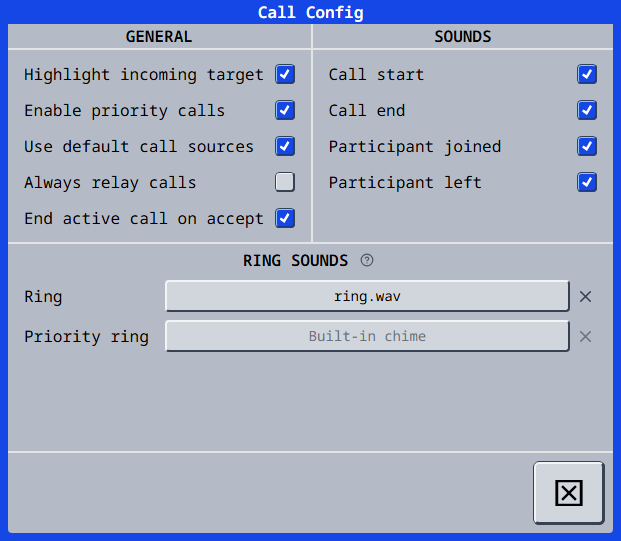
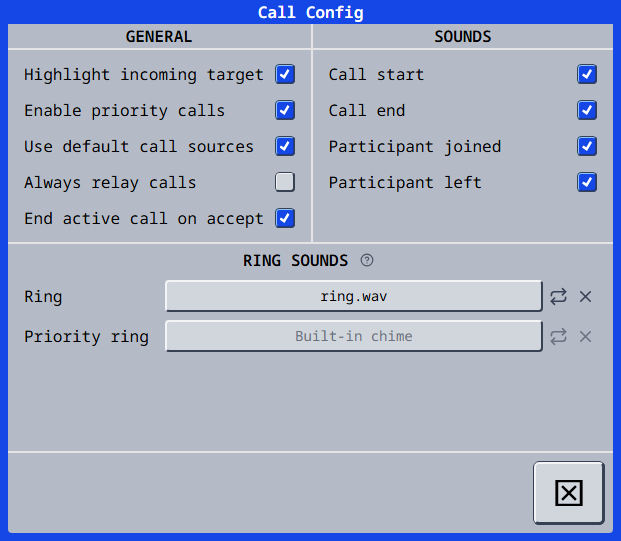
docs: document looping custom ring sounds (#94)

Changed region(s): [[0.4895, 0.5915, 0.6731, 0.6506], [0.8567, 0.5028, 0.9179, 0.6506], [0.5201, 0.5323, 0.6425, 0.5619]]

diff --git a/docs/advanced/remote-api.md b/docs/advanced/remote-api.md
@@ -276,6 +276,7 @@ Some commands are marked as **desktop only**[^desktop-only] and are unavailable 
 | `audio_get_ring_sounds`         | -                                                               | [`RingSounds`](#ringsounds)     | Get the custom ring sound files, if any.                                           |
 | `audio_pick_ring_sound` [^desktop-only] | -                                                       | `string` \| `null`              | Open a native file dialog and return the chosen WAV path without applying it.     |
 | `audio_set_ring_sound`          | `ringType`: [`RingSoundType`](#ringsoundtype), `path`: string?  | [`RingSounds`](#ringsounds)     | Use the WAV file at `path` for that ring, or the built-in chime when `path` is `null`. Plays it once. |
+| `audio_set_ring_sound_loop`     | `ringType`: [`RingSoundType`](#ringsoundtype), `enabled`: boolean | [`RingSounds`](#ringsounds)   | Repeat that ring's custom sound until no incoming call is ringing, or play it once. Stored even while the ring uses the built-in chime, which never loops. |
 | `audio_play_ui_click`           | -                                                               | `null`                          | Play the UI click sound.                                                           |
 | `audio_start_input_level_meter` | -                                                               | `{ userAdded: boolean }`        | Start input level monitoring, or join it if another frontend already runs it. Subscribe to `audio:input-level` to receive updates. `userAdded` says whether this call counts as a use that must be released. |
 | `audio_stop_input_level_meter`  | -                                                               | `null`                          | Release this client's use of the meter. It only stops once no frontend uses it any more. |
@@ -761,12 +762,12 @@ Used as the `deviceType` argument for `audio_get_devices` and `audio_set_device`
 
 ### RingSounds
 
-Returned by `audio_get_ring_sounds` and `audio_set_ring_sound`. A field is absent when that ring uses the built-in chime.
+Returned by `audio_get_ring_sounds`, `audio_set_ring_sound` and `audio_set_ring_sound_loop`. A field is absent when that ring uses the built-in chime.
 
 ```json
 {
-  "ring": {"path": "C:\\Users\\me\\Sounds\\ring.wav", "available": true},
-  "priorityRing": {"path": "C:\\Users\\me\\Sounds\\urgent.wav", "available": false}
+  "ring": {"path": "C:\\Users\\me\\Sounds\\ring.wav", "available": true, "loop": true},
+  "priorityRing": {"path": "C:\\Users\\me\\Sounds\\urgent.wav", "available": false, "loop": false}
 }
 ```
 
@@ -781,12 +782,13 @@ Returned by `audio_get_ring_sounds` and `audio_set_ring_sound`. A field is absen
 | ----------- | --------- | ---------------------------------------------------------------------------------------------------- |
 | `path`      | `string`  | Absolute path of the WAV file on the desktop machine.                                                |
 | `available` | `boolean` | `false` when the file could not be loaded at startup, in which case the built-in chime plays instead. |
+| `loop`      | `boolean` | Whether the sound repeats until no incoming call is ringing. Has no effect while `available` is `false`. |
 
 `audio_set_ring_sound` fails, and keeps the previous sound, if the file is not readable as WAV, is shorter than 100 milliseconds, longer than 30 seconds, or silent. The path must be readable by the desktop client, not by the remote browser.
 
 #### RingSoundType
 
-Used as the `ringType` argument for `audio_set_ring_sound`:
+Used as the `ringType` argument for `audio_set_ring_sound` and `audio_set_ring_sound_loop`:
 
 ```
 "ring" | "priorityRing"

diff --git a/docs/settings/call.md b/docs/settings/call.md
@@ -144,22 +144,31 @@ style={{
   }}
 />
 
-Each ring has a field that reads **Built-in chime** or the name of the chosen file, with an **X** next to it, the same controls as a [hotkey](./hotkeys.md).
+Each ring has a field that reads **Built-in chime** or the name of the chosen file, followed by a **loop** button and an **X**.
 
 - Click the field to open a file dialog and pick a `.wav` file. vacs plays it once so you can check it.
 - Click the **X** to go back to the built-in chime for that ring. It plays once as confirmation.
+- Click the **loop** button (two circling arrows) to repeat your custom sound until you pick up. It turns blue while it is on. Click it again to play the sound only once.
 - Hover the field to see the full path.
 
 The **Priority ring** field is only available while **Enable priority calls** is on, since a priority call is the only thing that plays it.
 
 The file has to be a **WAV** file between **0.1 and 30 seconds** long. Other formats such as MP3 are not supported. Mono or stereo, and any common sample rate, are fine: vacs converts the file to what your output device needs. If a file cannot be used, vacs tells you why and keeps the previous sound.
 
-The sound plays once per incoming call, through the [speaker device](./audio.mdx#audio-device-configuration) when one is configured and otherwise through your headset, and it stops as soon as you pick up. vacs levels every custom file to the loudness of the built-in chime, so the [Chime Volume](./audio.mdx#chime-volume) slider means the same thing whichever sound is set, and releasing that slider plays the current ring sound as well.
+Unless the loop button is on, the sound plays once per incoming call, through the [speaker device](./audio.mdx#audio-device-configuration) when one is configured and otherwise through your headset, and it stops as soon as you pick up. vacs levels every custom file to the loudness of the built-in chime, so the [Chime Volume](./audio.mdx#chime-volume) slider means the same thing whichever sound is set, and releasing that slider plays the current ring sound as well.
+
+:::tip[Looping a ring sound]
+Available from **vacs 3.0.0**.
+
+A looping ring sound starts again **3 seconds** after it finished, until no incoming call is ringing any more, for example because you picked up the last one or the caller hung up. Only custom sounds can loop: the button is greyed out while a ring uses the built-in chime or its file cannot be loaded. vacs remembers the loop setting when you clear or replace the file.
+
+To change the pause, set `ring_sound_loop_pause_seconds` in the `[audio]` section of `audio.toml`, for example `ring_sound_loop_pause_seconds = 1.5`, and restart vacs. **Open Config** in the [Miscellaneous settings](./misc.md#open-config) opens the folder. `0` repeats the sound without a pause.
+:::
 
 :::note[Keep the file in place]
 vacs remembers the path of the file, not its contents. If you move or delete the file, vacs plays the built-in chime from the next start on, and the Call Config page shows the file name in red until you pick a file again or press the **X**.
 :::
 
 :::info[Remote control]
-Choosing a file is only possible in the desktop client, because the file dialog opens there. A [remote control](../using-vacs/remote-control.md) session shows the current sounds and can reset them to the built-in chime.
+Choosing a file is only possible in the desktop client, because the file dialog opens there. A [remote control](../using-vacs/remote-control.md) session shows the current sounds, can turn looping on or off, and can reset them to the built-in chime.
 :::
